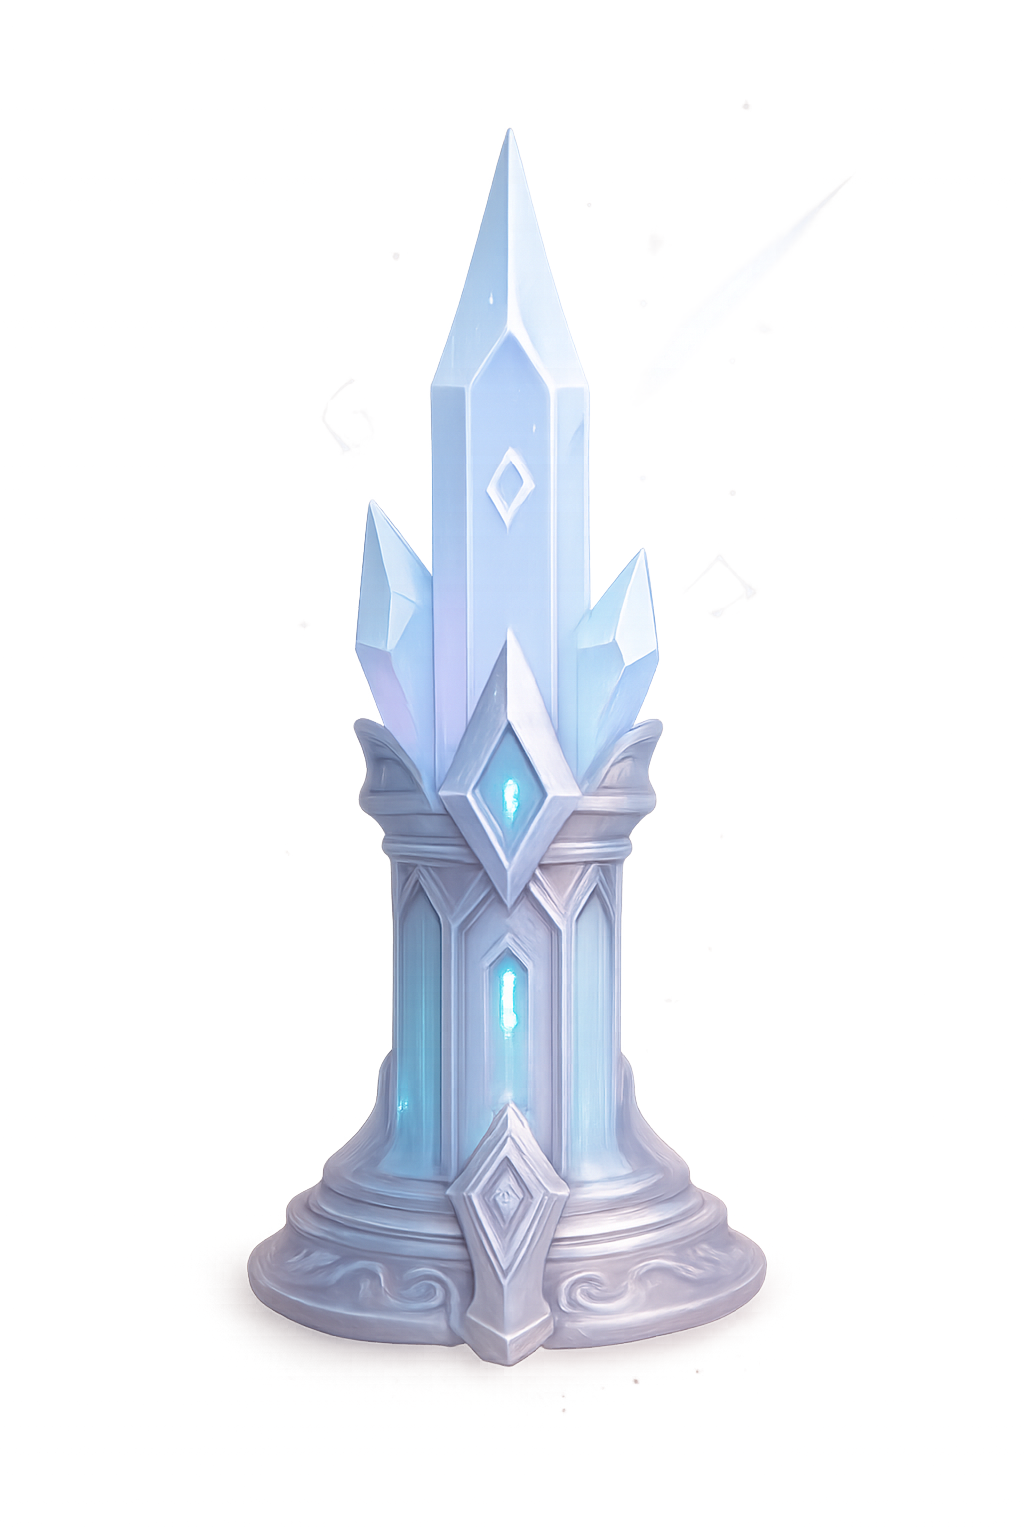
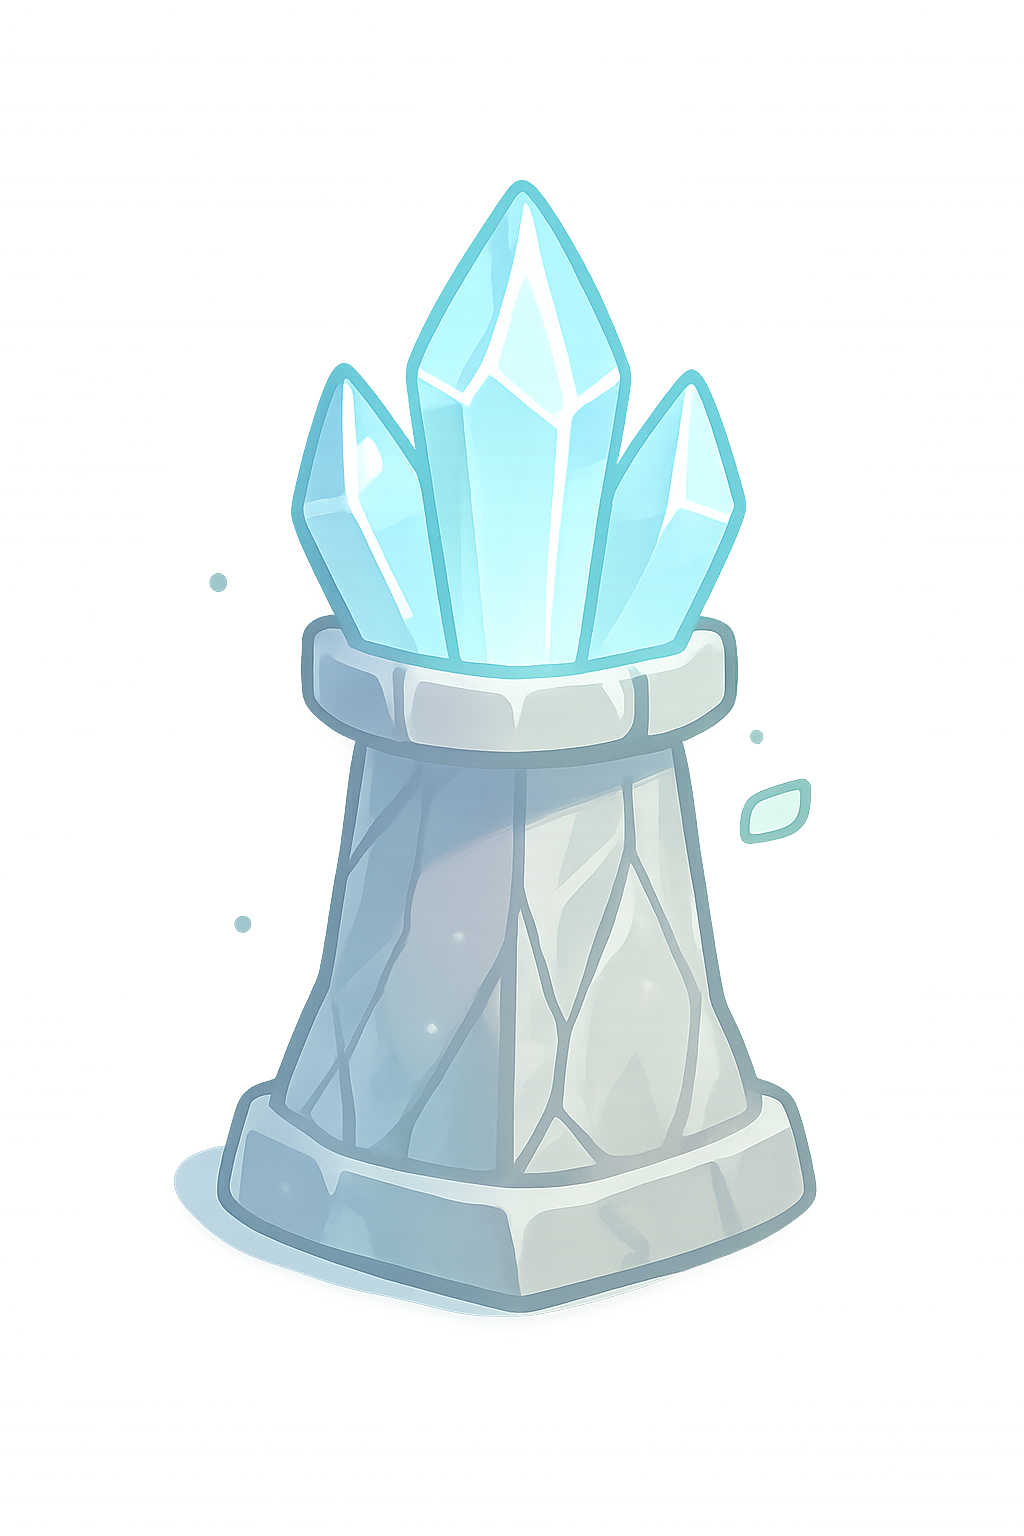
tower images added

diff --git a/core/towers.js b/core/towers.js
@@ -1,9 +1,9 @@
 // ============================================================
-// 🌸 towers.js — Olivia’s World: Crystal Keep
+// 💎 towers.js — Olivia’s World: Crystal Keep (Crystal Defender XL + Refined Shadow)
 // ------------------------------------------------------------
-// ✦ Manages tower placement, targeting, and firing
-// ✦ Handles cooldowns, range detection, and projectile spawning
-// ✦ Core offensive system integrated with enemies.js & projectiles.js
+// ✦ Crystal Defender tower visuals + targeting + firing
+// ✦ Enlarged to 96px with smaller, softer shadow
+// ✦ Idle / Active frames from ./assets/images/turrets/
 // ============================================================
 
 import { TOWER_RANGE } from "../utils/constants.js";
@@ -11,22 +11,49 @@ import { spawnProjectile } from "./projectiles.js";
 import { getEnemies } from "./enemies.js";
 
 // ------------------------------------------------------------
+// 🖼 SPRITES
+// ------------------------------------------------------------
+let turretIdle = null;
+let turretActive = null;
+
+// ------------------------------------------------------------
 // ⚙ STATE
 // ------------------------------------------------------------
 let towers = [];
 
 // ------------------------------------------------------------
-// 🌷 INITIALIZATION
+// 🌷 LOAD IMAGES
 // ------------------------------------------------------------
-export function initTowers() {
-  towers = [];
+function loadImage(src) {
+  return new Promise((resolve) => {
+    const img = new Image();
+    img.src = src;
+    img.onload = () => resolve(img);
+  });
+}
 
-  // 🏰 Temporary test tower
+async function loadTowerSprites() {
+  turretIdle = await loadImage("./assets/images/turrets/basic_turret.png");
+  turretActive = await loadImage("./assets/images/turrets/basic_turret_active.png");
+  console.log("🏰 Crystal Defender sprites loaded (idle + active).");
+}
+
+// ------------------------------------------------------------
+// 🌸 INITIALIZATION
+// ------------------------------------------------------------
+export async function initTowers() {
+  towers = [];
+  await loadTowerSprites();
+
   towers.push({
+    name: "Crystal Defender",
     x: 5 * 64 + 32,
     y: 4 * 64 + 32,
-    cooldown: 0
+    cooldown: 0,
+    activeFrameTimer: 0,
   });
+
+  console.log(`🏹 ${towers.length} Crystal Defender tower(s) initialized.`);
 }
 
 // ------------------------------------------------------------
@@ -38,34 +65,71 @@ export function updateTowers(delta) {
 
   towers.forEach((tower) => {
     tower.cooldown -= dt;
+    if (tower.activeFrameTimer > 0) tower.activeFrameTimer -= delta;
 
     if (tower.cooldown <= 0) {
-      // 🎯 Find nearest target in range
       const target = enemies.find((e) => {
         const dist = Math.hypot(e.x - tower.x, e.y - tower.y);
-        return dist <= TOWER_RANGE;
+        return e.alive && dist <= TOWER_RANGE;
       });
 
-      // 💥 Fire projectile if target acquired
       if (target) {
         spawnProjectile(tower.x, tower.y, target);
-        tower.cooldown = 0.8; // seconds
+        tower.cooldown = 800 / 1000;
+        tower.activeFrameTimer = 200;
       }
     }
   });
 }
 
 // ------------------------------------------------------------
-// 🎨 DRAW TOWERS — VISUAL RENDER
+// 🎨 DRAW TOWERS — 96px size + compact shadow
+// ------------------------------------------------------------
+// ------------------------------------------------------------
+// 🎨 DRAW TOWERS — 96px size + compact shadow + lowered 10%
 // ------------------------------------------------------------
 export function drawTowers(ctx) {
-  ctx.fillStyle = "#ffd6eb"; // 🌸 pastel pink towers
+  if (!ctx) return;
 
   towers.forEach((tower) => {
+    const img = tower.activeFrameTimer > 0 ? turretActive : turretIdle;
+    if (!img) return;
+
+    const size = 96;
+    const drawX = tower.x - size / 2;
+    const verticalOffset = size * 0.10; // 🔻 move down 10%
+    const drawY = tower.y - size / 2 + verticalOffset;
+
+    ctx.save();
+
+    // 🩶 Smaller, softer shadow (unchanged)
     ctx.beginPath();
-    ctx.arc(tower.x, tower.y, 20, 0, Math.PI * 2);
+    ctx.ellipse(
+      tower.x,
+      tower.y + size * 0.38,
+      size * 0.25,
+      size * 0.10,
+      0,
+      0,
+      Math.PI * 2
+    );
+    ctx.fillStyle = "rgba(0, 0, 0, 0.15)";
     ctx.fill();
+
+    ctx.imageSmoothingEnabled = true;
+    ctx.imageSmoothingQuality = "high";
+    ctx.drawImage(img, drawX, drawY, size, size);
+
+    ctx.restore();
   });
+}
+
+
+// ------------------------------------------------------------
+// 🔍 ACCESSOR
+// ------------------------------------------------------------
+export function getTowers() {
+  return towers;
 }
 
 // ============================================================
